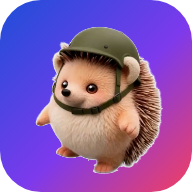
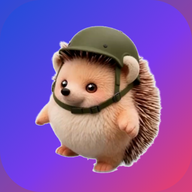
Ikona na ploše: plné pozadí bez průhledných rohů, 180px pro iOS, maskable pro Android, manifest id
Claude-Session: https://claude.ai/code/session_011nwkJ5RecybNFjXbQHfLco

diff --git a/sw.js b/sw.js
@@ -2,9 +2,9 @@
 // Online: vždy nejdřív síť (aktuální verze hned po nasazení), odpověď se uloží do cache.
 // Offline nebo pomalá síť (> 4 s): uložená kopie. Appka tak funguje v letadle a přitom
 // po aktualizaci nikdy neukazuje starý obsah.
-const VERZE = "deflearn-v32";
+const VERZE = "deflearn-v33";
 const SOUBORY = ["./", "./index.html", "./config.js", "./css/style.css", "./js/slouceni.js", "./js/jezek.js", "./js/hudba.js", "./js/api.js", "./js/app.js",
-  "./obsah/kurz-defence.js", "./obsah/kurz-programy.js", "./obsah/kurz-slovnicek.js", "./obsah/kurz-anglictina.js", "./obsah/kurz-startupy.js", "./obsah/kurz-eu-programy.js", "./obsah/kurz-nato-programy.js", "./obsah/kurz-procurement.js", "./obsah/vyuka.js", "./obsah/zapojit.js", "./manifest.webmanifest", "./img/ikona-192.png", "./img/ikona-512.png", "./img/hubik-klid.png", "./img/hubik-salut.png", "./img/hubik-radost.png", "./img/hubik-salut.webp"];
+  "./obsah/kurz-defence.js", "./obsah/kurz-programy.js", "./obsah/kurz-slovnicek.js", "./obsah/kurz-anglictina.js", "./obsah/kurz-startupy.js", "./obsah/kurz-eu-programy.js", "./obsah/kurz-nato-programy.js", "./obsah/kurz-procurement.js", "./obsah/vyuka.js", "./obsah/zapojit.js", "./manifest.webmanifest", "./img/ikona-192.png", "./img/ikona-512.png", "./img/ikona-180.png", "./img/ikona-maskable-512.png", "./img/hubik-klid.png", "./img/hubik-salut.png", "./img/hubik-radost.png", "./img/hubik-salut.webp"];
 self.addEventListener("install", e => { e.waitUntil(caches.open(VERZE).then(c => c.addAll(SOUBORY)).then(() => self.skipWaiting())); });
 self.addEventListener("activate", e => { e.waitUntil(caches.keys().then(ks => Promise.all(ks.filter(k => k !== VERZE).map(k => caches.delete(k)))).then(() => self.clients.claim())); });
 self.addEventListener("fetch", e => {

diff --git a/index.html b/index.html
@@ -10,8 +10,11 @@
   <meta name="apple-mobile-web-app-status-bar-style" content="black-translucent">
   <meta name="apple-mobile-web-app-title" content="DefLearn Hub">
   <link rel="manifest" href="manifest.webmanifest">
-  <link rel="icon" href="img/ikona-192.png" type="image/png">
-  <link rel="apple-touch-icon" href="img/ikona-192.png">
+  <link rel="icon" href="img/ikona-192.png" type="image/png" sizes="192x192">
+  <link rel="icon" href="img/ikona-512.png" type="image/png" sizes="512x512">
+  <link rel="apple-touch-icon" sizes="180x180" href="img/ikona-180.png">
+  <link rel="apple-touch-icon" sizes="192x192" href="img/ikona-192.png">
+  <link rel="apple-touch-icon-precomposed" href="img/ikona-180.png">
   <link rel="stylesheet" href="css/style.css">
 </head>
 <body class="ve-feedu">
